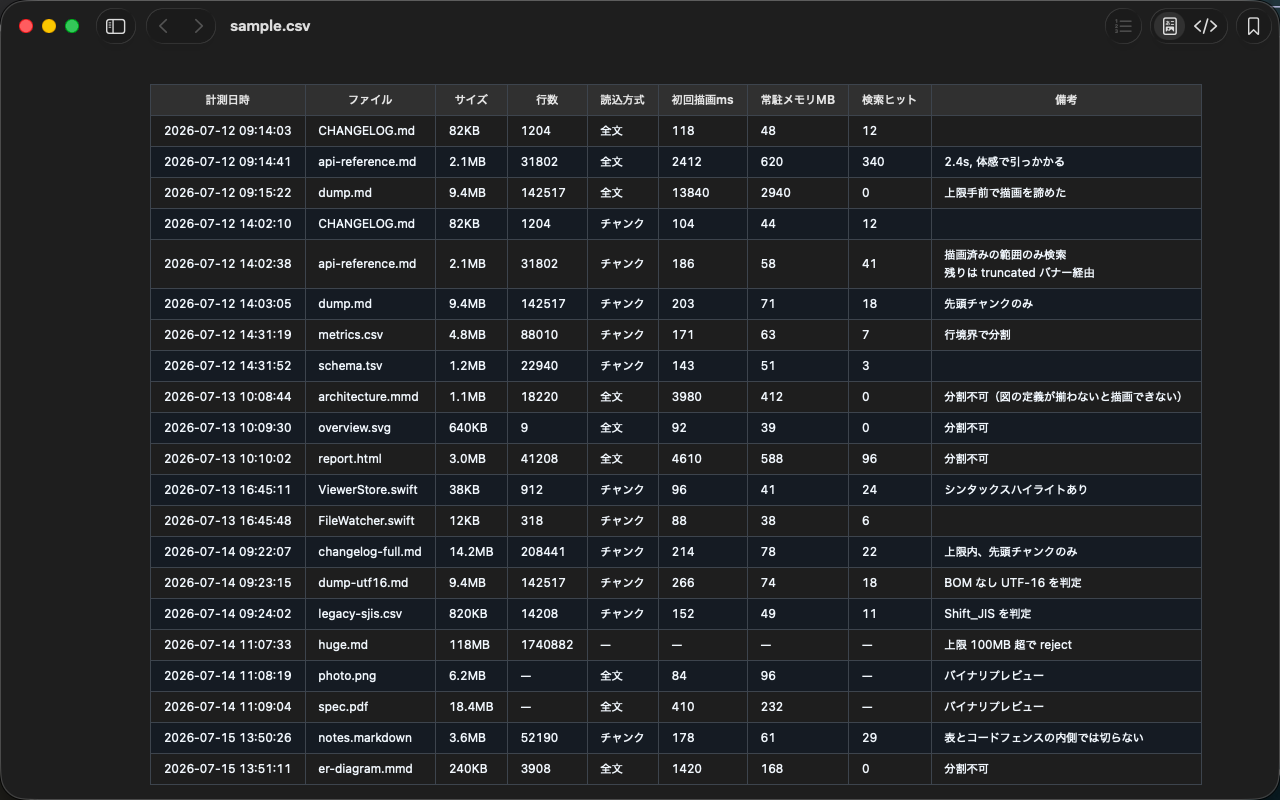
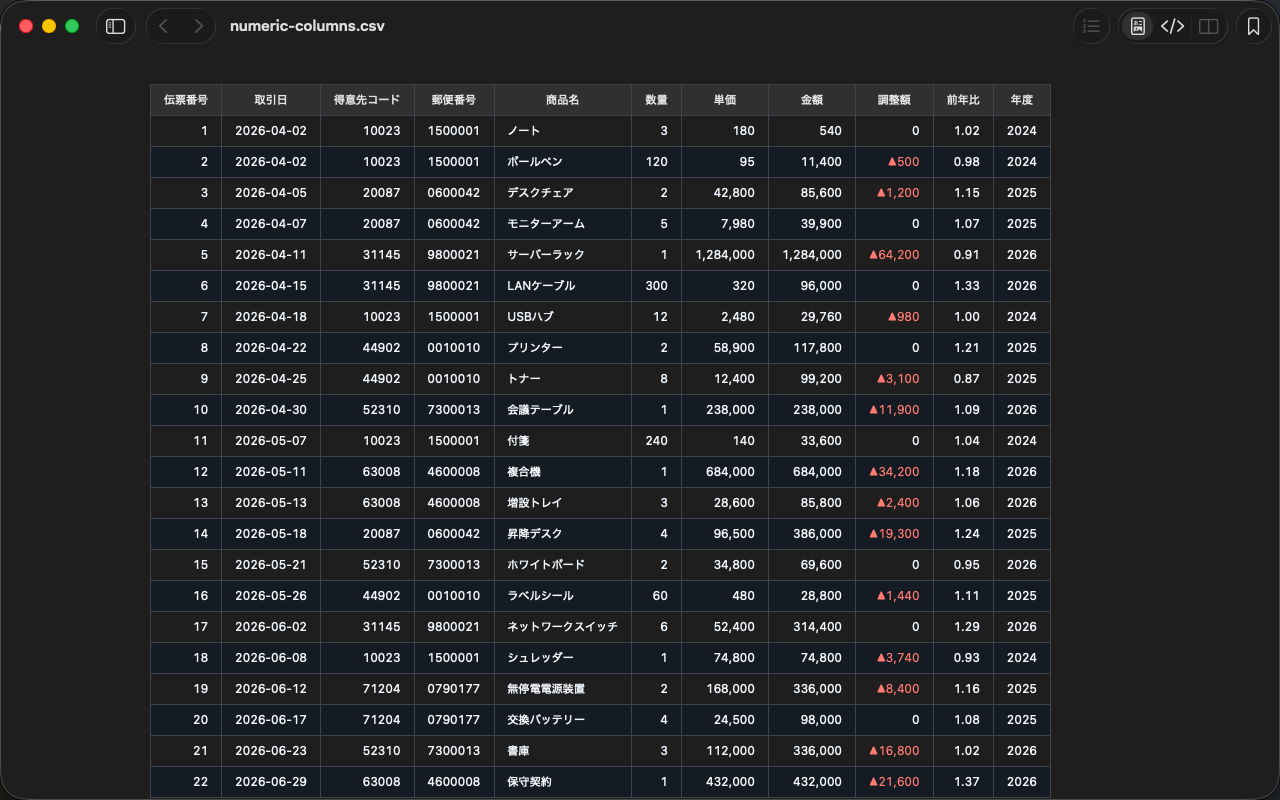
chore: TASK-559 CSV のサンプル画像を数値表示が分かるものへ差し替える
撮影対象を sample.csv から numeric-columns.csv へ移し、負の数の表記を
撮影時だけ ▲+赤字へ固定する。窓を埋めるためサンプルを 22 行へ拡張した
（列判定の 6 つの拒否条件の実例は保っている）。

Claude-Session: https://claude.ai/code/session_01QEW7A9K4QHUhXHiTT2T5Kd

diff --git a/backlog/tasks/task-559 - CSV-サンプル画像を数値表示（右寄せ・桁区切り・負数）が分かるものへ差し替える.md b/backlog/tasks/task-559 - CSV-サンプル画像を数値表示（右寄せ・桁区切り・負数）が分かるものへ差し替える.md
@@ -1,0 +1,58 @@
+---
+id: TASK-559
+title: CSV サンプル画像を数値表示（右寄せ・桁区切り・負数）が分かるものへ差し替える
+status: Done
+assignee:
+  - '@Tommy109'
+created_date: '2026-08-27 11:51'
+updated_date: '2026-08-27 11:52'
+labels: []
+dependencies: []
+priority: medium
+type: chore
+ordinal: 809000
+---
+
+## Description
+
+<!-- SECTION:DESCRIPTION:BEGIN -->
+配布サイトのカルーセルの CSV 画像（`site/public/images/screenshot-4.png`）は `sample/sample.csv` を撮ったもので、TASK-557 で入れた数値表示（右寄せ・桁区切り・負の数の表記）が伝わらない。
+
+撮影対象を `sample/numeric-columns.csv` へ移し、負の数の表記は撮影時だけ ▲+赤字（`triangleRed`）に固定する。既定の `plain`（-1,234）だと「負の数の見せ方を選べる」ことが画像から読み取れないため（ユーザー判断、2026-08-27）。
+<!-- SECTION:DESCRIPTION:END -->
+
+## Acceptance Criteria
+<!-- AC:BEGIN -->
+- [x] #1 screenshot-4.png が右寄せ・桁区切り・負の数（▲+赤字）を含む表を写している
+- [x] #2 コード列（得意先コード・郵便番号・年度・伝票番号）に桁区切りが入っていないことが同じ画像で分かる
+- [x] #3 撮影スクリプトを引数なしで回しても同じ画像が再現できる（負数スタイルの設定がスクリプト側にある）
+<!-- AC:END -->
+
+## Implementation Notes
+
+<!-- SECTION:NOTES:BEGIN -->
+## やったこと
+
+- `scripts/capture-screenshots.applescript`: 4 番の対象を `sample.csv` → `numeric-columns.csv` へ。あわせて撮影前に `CsvNegativeStyle=triangleRed` と `CsvNumberGrouping=true` を `defaults write` する（`SourceDiffLayout` と同じ扱い。撮影が実行環境の既定値に依存しないようにするため）
+- `sample/numeric-columns.csv`: 10 行 → 22 行へ拡張。**旧画像（sample.csv・22 行）が窓を埋めていたのに対し、10 行では下半分が空いたため**。列判定の性質は保っている——伝票番号は連番、得意先コードは 5 桁固定、郵便番号は 7 桁で先頭ゼロあり、年度は 2024〜2026、前年比は 1,000 未満の小数。したがって TASK-557.1 の 6 つの拒否条件の実測例はそのまま残る
+- `site/public/images/screenshot-4.png` を撮り直し
+
+## 検証
+
+- 撮影後の画像を Read して目視確認（メモリ `screenshot-capture-needs-attended-session` のとおり `defaults read -g` ではなく画像で確かめた）: ダークテーマ、右寄せ、1,284,000 などの桁区切り、▲500 の赤字、そして**得意先コード・郵便番号・年度・伝票番号には桁区切りが入っていない**ことを確認
+- 撮影は引数 4 を指定（引数なしだと 1〜6 も撮り直され、アンチエイリアスの差で無関係な差分が出る）
+- `rg` で `numeric-columns` の参照を確認: 撮影スクリプトと backlog のみで、テストからは参照されていない
+- **未実行**: `BefoldApp` の jest（`node_modules` が未インストール）。今回の差分は sample データと AppleScript だけで JS コードに触れていないため、CI の js-test に委ねる
+
+## 環境について 1 点
+
+このセッションでは `screencapture` も System Events も許可済みで、**Claude のセッションから撮影できた**（メモリ `screenshot-capture-needs-attended-session` は「バックグラウンドジョブからは不可」と記録していたが、対話セッションかつ許可済みの端末では回せる）。外観もダーク固定だった。
+
+撮影スクリプトが `defaults write` するため、**実行後のアプリは負の数が ▲+赤字のまま**になる。既定へ戻すなら `defaults delete com.degino.befold CsvNegativeStyle`。
+<!-- SECTION:NOTES:END -->
+
+## Final Summary
+
+<!-- SECTION:FINAL_SUMMARY:BEGIN -->
+撮影対象を numeric-columns.csv へ移し、負数スタイルを撮影スクリプト側で triangleRed に固定して screenshot-4.png を撮り直した。窓を埋めるためサンプルを 22 行へ拡張（列判定の拒否条件の実例は保持）。画像を目視確認し、右寄せ・桁区切り・▲赤字と、コード列に桁区切りが入らないことを確認した。
+<!-- SECTION:FINAL_SUMMARY:END -->
